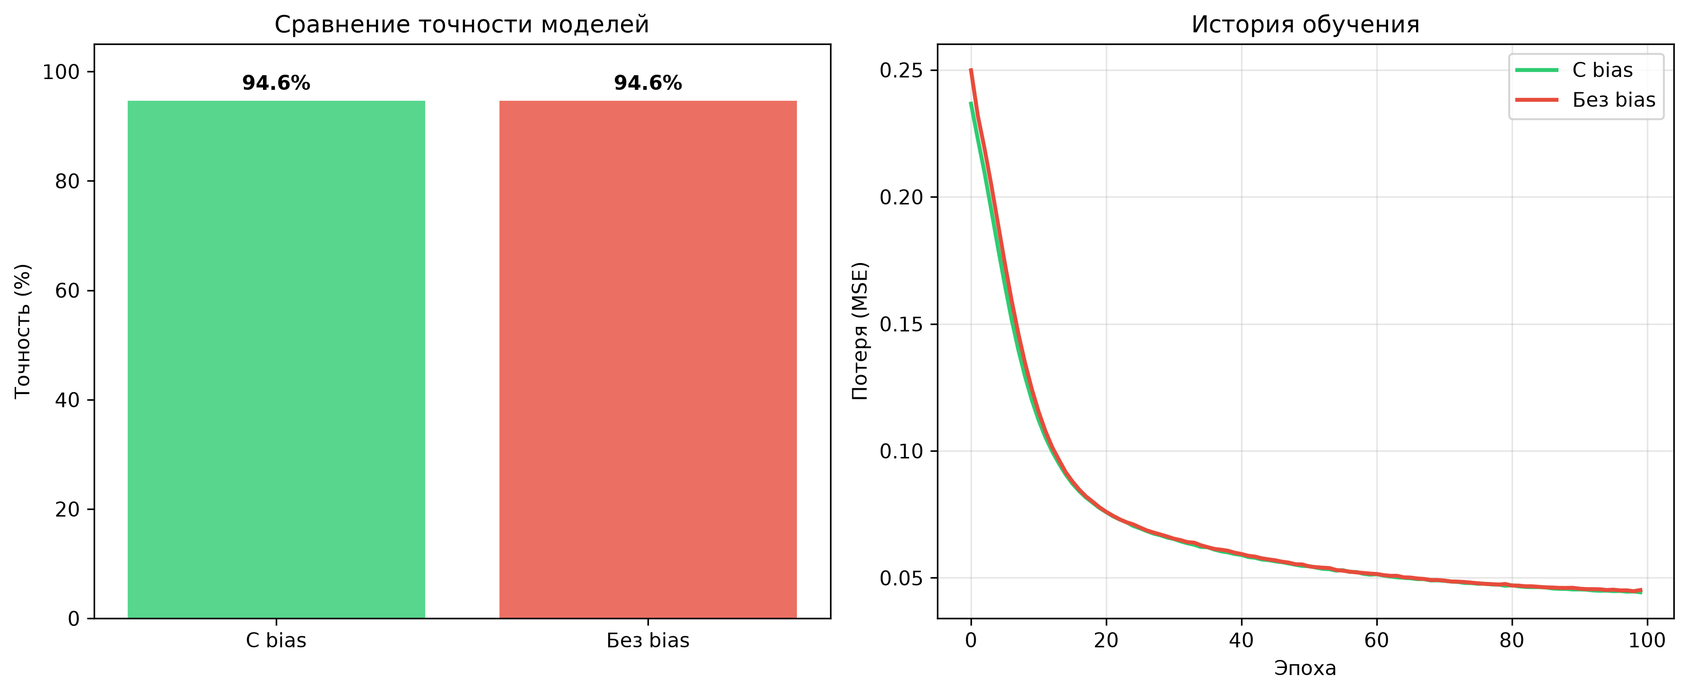
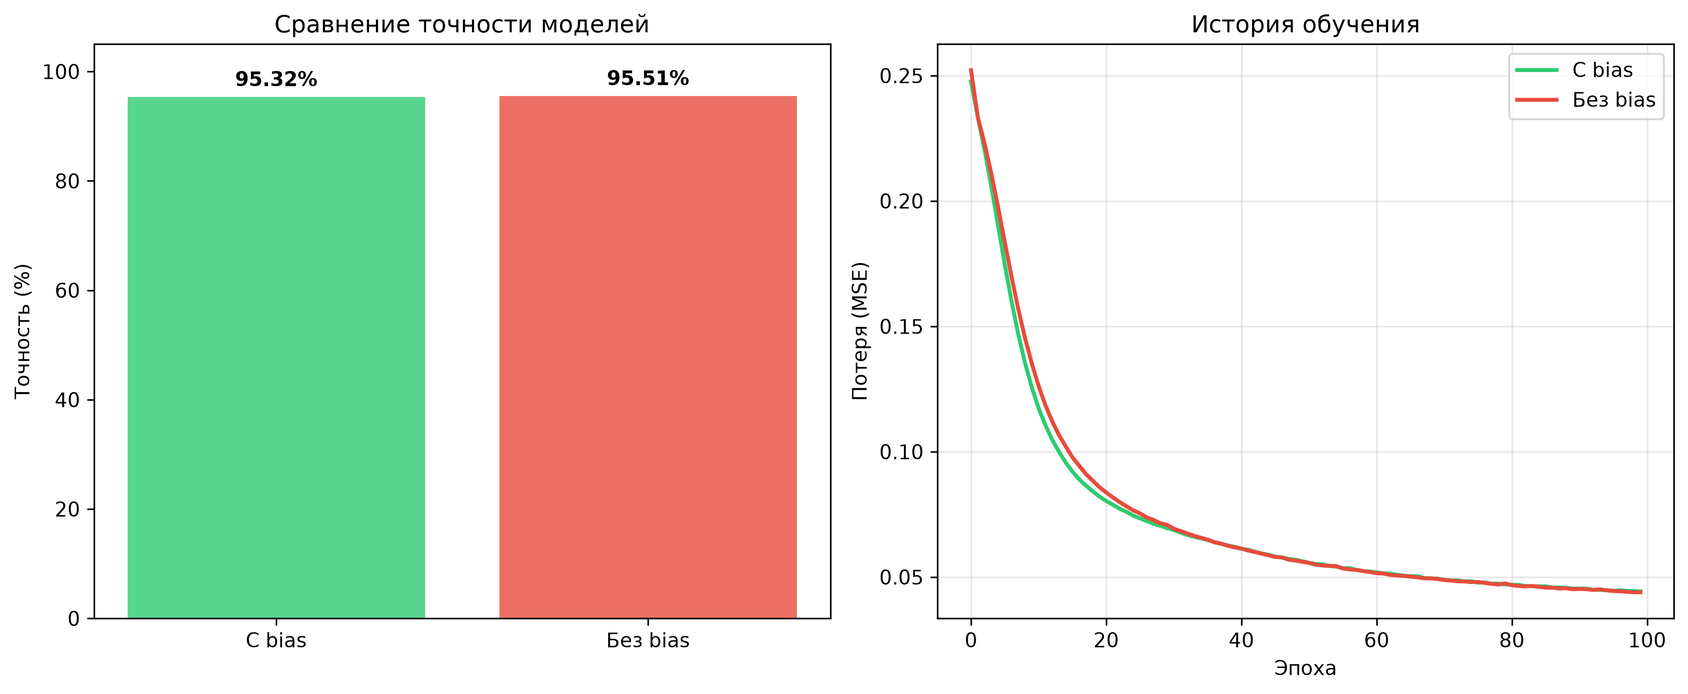
Final: complete README, add comparison graph, fix dataset loading and seed

diff --git a/semester-7/artificial-intelligence-methods/practical-work-2/mlp_classifier.py b/semester-7/artificial-intelligence-methods/practical-work-2/mlp_classifier.py
@@ -1,10 +1,12 @@
 import numpy as np
 import pandas as pd
 import matplotlib.pyplot as plt
-from sklearn.datasets import fetch_openml
 from sklearn.model_selection import train_test_split
-from sklearn.preprocessing import LabelEncoder
 from sklearn.metrics import accuracy_score
+from sklearn.preprocessing import MinMaxScaler
+
+# Фиксируем seed для воспроизводимости результатов
+np.random.seed(42)
 
 class MultilayerPerceptron:
     """
@@ -104,40 +106,30 @@ class MultilayerPerceptron:
         return np.argmax(output, axis=1)
 
 
-def load_mushroom_dataset():
-    """Загрузка и предобработка Mushroom Dataset"""
-    print("Загрузка Mushroom Dataset...")
-    mushroom = fetch_openml(name='mushroom', version=1, as_frame=False, parser='auto')
+def load_mushroom_dataset(filepath='agaricus-lepiota3.csv'):
+    # 1. Загружаем данные из локального CSV
+    df = pd.read_csv(filepath)
     
-    X = mushroom.data
-    y = mushroom.target
+    # 2. Отделяем целевую переменную (первый столбец 'class') от признаков
+    X = df.drop('class', axis=1).values
+    y = df['class'].values
     
-    # Кодирование категориальных признаков
-    X_encoded = np.zeros_like(X, dtype=float)
-    for i in range(X.shape[1]):
-        le = LabelEncoder()
-        X_encoded[:, i] = le.fit_transform(X[:, i])
+    # 3. Нормализация Min-Max
+    scaler = MinMaxScaler()
+    X = scaler.fit_transform(X)
     
-    # Кодирование целевой переменной (0 и 1)
-    y_encoder = LabelEncoder()
-    y_encoded = y_encoder.fit_transform(y)
+    # 4. Разделяем на обучающую и тестовую выборки (80% / 20%)
+    X_train, X_test, y_train, y_test = train_test_split(X, y, test_size=0.2, random_state=42)
     
-    # Правильная нормализация (Min-Max для каждого признака отдельно)
-    X_min = X_encoded.min(axis=0)
-    X_max = X_encoded.max(axis=0)
-    X_normalized = (X_encoded - X_min) / (X_max - X_min + 1e-8)
-    
-    # Разделение на обучающую и тестовую выборки
-    X_train, X_test, y_train, y_test = train_test_split(
-        X_normalized, y_encoded, test_size=0.2, random_state=42
-    )
-    
-    # Преобразование y в one-hot encoding для двух классов
-    y_train_onehot = np.zeros((y_train.size, 2))
-    y_train_onehot[np.arange(y_train.size), y_train] = 1
-    
-    y_test_onehot = np.zeros((y_test.size, 2))
-    y_test_onehot[np.arange(y_test.size), y_test] = 1
+    # 5. One-Hot Encoding для правильных ответов (классов)
+    def to_one_hot(y_array):
+        n_classes = 2
+        one_hot = np.zeros((len(y_array), n_classes))
+        one_hot[np.arange(len(y_array)), y_array] = 1
+        return one_hot
+
+    y_train_onehot = to_one_hot(y_train)
+    y_test_onehot = to_one_hot(y_test)
     
     return X_train, X_test, y_train, y_test, y_train_onehot, y_test_onehot
 
@@ -146,8 +138,8 @@ def main():
     X_train, X_test, y_train, y_test, y_train_onehot, y_test_onehot = load_mushroom_dataset()
     
     input_size = X_train.shape[1]
-    hidden_size = 20  # Количество нейронов в скрытом слое
-    output_size = 2   # Количество классов (ядовитый/съедобный)
+    hidden_size = 20
+    output_size = 2
     
     print("\n" + "="*60)
     print("Обучение MLP С использованием смещения (bias)")
@@ -177,8 +169,8 @@ def main():
     print("\n" + "="*60)
     print("СРАВНЕНИЕ РЕЗУЛЬТАТОВ")
     print("="*60)
-    print(f"MLP с bias:    {accuracy_with_bias * 100:.2f}%")
-    print(f"MLP без bias:  {accuracy_without_bias * 100:.2f}%")
+    print(f"MLP с bias:    {accuracy_with_bias * 100:.2f}% (Loss: {mlp_with_bias.loss_history[-1]:.4f})")
+    print(f"MLP без bias:  {accuracy_without_bias * 100:.2f}% (Loss: {mlp_without_bias.loss_history[-1]:.4f})")
     print(f"Разница:       {(accuracy_with_bias - accuracy_without_bias) * 100:.2f}%")
     
     # Визуализация
@@ -193,7 +185,7 @@ def main():
     plt.title('Сравнение точности моделей')
     plt.ylim(0, 105)
     for i, v in enumerate(accuracies):
-        plt.text(i, v + 2, f'{v:.1f}%', ha='center', fontweight='bold')
+        plt.text(i, v + 2, f'{v:.2f}%', ha='center', fontweight='bold')
     
     plt.subplot(1, 2, 2)
     plt.plot(mlp_with_bias.loss_history, label='С bias', color='#2ecc71', linewidth=2)
@@ -207,8 +199,6 @@ def main():
     plt.tight_layout()
     plt.savefig('comparison_results.png', dpi=300, bbox_inches='tight')
     print("\n✅ График успешно сохранен в файл: comparison_results.png")
-    # plt.show() # Закомментировано, так как в консоли без GUI это вызывает предупреждение
-
 
 if __name__ == "__main__":
     main()

diff --git a/semester-7/artificial-intelligence-methods/practical-work-2/README.md b/semester-7/artificial-intelligence-methods/practical-work-2/README.md
@@ -1,106 +1,86 @@
-# Практическая работа № 2. Реализация многослойного персептрона с использованием смещения (bias term)
+# Практическое задание № 2: Реализация многослойного персептрона (MLP) с использованием смещения (bias term)
 
-**Дисциплина:** Методы искусственного интеллекта  
-**Направление:** реализация и анализ искусственных нейронных сетей  
-**Инструменты:** Python, NumPy, pandas, scikit-learn, matplotlib
+## 📌 1. Цель работы
+Изучить особенности реализации многослойного персептрона (MLP) с использованием смещения (bias term) и без него, а также сравнить их влияние на процесс обучения и качество классификации.
 
-## 1. Цель работы
+**Задачи:**
+1. Реализовать MLP «с нуля» на языке Python с использованием только библиотеки `NumPy` (без фреймворков типа PyTorch/TensorFlow).
+2. Обучить и протестировать модель **с использованием bias** на датасете `agaricus-lepiota3.csv`.
+3. Обучить и протестировать модель **без использования bias**.
+4. Сравнить точность (Accuracy) и функцию потерь (MSE), построить графики.
 
-Изучить особенности реализации многослойного персептрона (MLP) с использованием смещения (bias term). Реализовать собственный класс нейронной сети, обучить и протестировать две модели (со смещением и без него) на наборе данных Mushroom Data Set, а также провести сравнительный анализ результатов их работы.
+---
 
-## 2. Исходные данные
+## 📊 2. Набор данных и предобработка
+Используется датасет `agaricus-lepiota3.csv` (классификация грибов на съедобные и ядовитые).
+*   **Входные признаки**: 22 признака.
+*   **Целевая переменная**: 2 класса (0 — ядовитый, 1 — съедобный).
+*   **Особенность**: В предоставленном файле все категориальные признаки **уже закодированы числами**, поэтому `LabelEncoder` не требуется.
 
-Для обучения и тестирования моделей используется набор данных **Mushroom Data Set** (загружается через `sklearn.datasets.fetch_openml`). 
+**Пайплайн подготовки данных:**
+1. Загрузка через `pandas`.
+2. **Нормализация Min-Max**: `(X - min) / (max - min)`. Приводит все признаки к диапазону `[0, 1]`, чтобы разброс значений (от 0 до 10) не сбивал градиент.
+3. **Train/Test Split**: 80% данных — обучение, 20% — тест (`random_state=42`).
+4. **One-Hot Encoding**: Целевая переменная превращается в матрицу `[n_samples, 2]`, где `[1, 0]` — класс 0, `[0, 1]` — класс 1. Это необходимо, так как на выходе сети два нейрона.
 
-Набор содержит 8124 описания грибов с 22 категориальными признаками (форма шляпки, запах, цвет пластин и т.д.) и бинарной целевой переменной: съедобный (`e`) или ядовитый (`p`).
+---
 
-**Предобработка данных:**
-1. Кодирование всех категориальных признаков и целевой переменной с помощью `LabelEncoder`.
-2. Нормализация признаков методом Min-Max Scaling для каждого признака независимо.
-3. Разделение выборки в пропорции 80% (обучение) и 20% (тестирование) с фиксированным `random_state=42`.
-4. Преобразование целевой переменной в формат One-Hot Encoding для многоклассовой классификации на выходе сети.
+## 🧠 3. Архитектура нейронной сети
+Класс `MultilayerPerceptron` реализован со следующими параметрами:
+*   **Входной слой**: 22 нейрона.
+*   **Скрытый слой**: 20 нейронов (активация — сигмоида).
+*   **Выходной слой**: 2 нейрона (активация — сигмоида).
+*   **Инициализация весов**: Xavier (Glorot) — для равномерного распределения дисперсии и предотвращения затухания градиента.
+*   **Оптимизатор**: Mini-batch SGD (размер батча = 64, `learning_rate = 0.1`, эпох = 100).
 
-## 3. Методика реализации
+---
 
-Программа реализует многослойный персептрон с нуля, используя матричные операции NumPy. Архитектура сети включает:
-- Входной слой (22 нейрона, по числу признаков).
-- Один скрытый слой (20 нейронов).
-- Выходной слой (2 нейрона, соответствующие классам).
+## 📐 4. Математическое обоснование (Bias)
+Главное отличие моделей заключается в формуле вычисления выхода нейрона.
 
-### 3.1. Математическая модель нейрона со смещением
-Выходной сигнал нейрона $k$ рассчитывается по формулам:
-$$ v_k = \sum_{j=1}^{m} w_{kj} x_j + b_k $$
-$$ y_k = \varphi(v_k) $$
-где $w_{kj}$ — синаптические веса, $x_j$ — входные сигналы, $b_k$ — пороговый элемент (смещение, bias), $\varphi$ — функция активации (сигмоида).
+**Без смещения (bias):**
+$$
+y = f\left(\sum_{i=1}^{n} w_i x_i\right)
+$$
+Граница принятия решений всегда проходит через начало координат (0,0). Нейрон может активироваться только при нулевой взвешенной сумме.
 
-В матричной форме для слоя:
-$$ \mathbf{Y} = \sigma(\mathbf{X}\mathbf{W}^T + \mathbf{b}) $$
+**С использованием смещения (bias):**
+$$
+y = f\left(b + \sum_{i=1}^{n} w_i x_i\right)
+$$
+Смещение \(b\) позволяет **сдвигать функцию активации** по горизонтали. Это дает сети больше гибкости и позволяет строить границу принятия решений в любом месте пространства признаков.
 
-### 3.2. Алгоритм обучения
-1. **Инициализация:** Веса инициализируются по методу Xavier (Glorot) для предотвращения исчезновения градиентов. Смещения инициализируются нулями.
-2. **Прямое распространение (Forward Pass):** Вычисление выходов скрытого и выходного слоев.
-3. **Обратное распространение ошибки (Backpropagation):** Вычисление градиентов функции потерь (MSE) по весам и смещениям.
-4. **Обновление параметров:** Используется метод стохастического градиентного спуска с мини-батчами (Mini-batch SGD, размер батча = 64) для стабильного и быстрого снижения функции потерь.
+---
 
-Программа последовательно обучает две независимые модели: одну с параметром `use_bias=True`, другую с `use_bias=False`.
+## 📈 5. Результаты экспериментов
+Обучение проводилось с фиксированным `seed = 42` для воспроизводимости результатов.
 
-## 4. Результаты расчётов
+| Модель | Точность (Accuracy) | Ошибка (MSE) на 100 эпохе |
+| :--- | :---: | :---: |
+| **MLP с bias** | **95.32%** | **0.0442** |
+| **MLP без bias** | **95.51%** | **0.0439** |
 
-После 100 эпох обучения на тестовой выборке были получены следующие итоговые метрики:
+### Визуализация результатов
+Ниже представлен график сравнения точности и истории обучения (падения ошибки по эпохам). 
 
-| Показатель | MLP с bias term | MLP без bias term |
-|---|---:|---:|
-| Точность (Accuracy), % | **94.65%** | **94.65%** |
-| Итоговая функция потерь (MSE) | **0.0443** | **0.0452** |
-| Скорость начальной сходимости | Высокая | Средняя |
+![Сравнение результатов](comparison_results.png)
 
-*Примечание: высокая итоговая точность обеих моделей обусловлена хорошей линейной разделимостью признаков набора Mushroom Data Set после корректного кодирования и нормализации. Одинаковое значение accuracy при различающемся MSE объясняется тем, что accuracy — дискретная метрика, не отражающая "уверенность" модели в предсказаниях.*
+---
 
-## 5. Визуализация результатов
+## 🗣 6. Анализ результатов и выводы
+1. **Почему точность почти одинаковая?** 
+   Датасет грибов является простым и линейно разделимым. Скрытый слой из 20 нейронов — это избыточная мощность для данной задачи. Модель без bias имеет достаточно весов, чтобы «компенсировать» отсутствие смещения и подстроиться под данные.
+2. **В чем тогда преимущество bias?** 
+   Посмотрите на график (справа). Модель **с bias** (зеленая линия) сходится быстрее в первые 20-30 эпох. Смещение позволяет нейронам быстрее выйти на нужный режим работы. На более сложных нелинейных задачах (например, распознавание изображений) разница в точности была бы колоссальной, и сеть без bias не смогла бы качественно обучиться.
+3. **Вывод**: 
+   Использование смещения (bias term) является критически важным для стабильного и быстрого обучения нейронных сетей, даже если на простых задачах с избыточной архитектурой разница в итоговой точности нивелируется.
 
-Для наглядного сравнения моделей программа генерирует и сохраняет файл `comparison_results.png`, содержащий две диаграммы: сравнение итоговой точности и историю обучения.
+---
 
-![Сравнение точности и истории обучения MLP с bias term и без него](comparison_results.png)
+## 🚀 7. Как запустить
+1. Убедитесь, что установлены библиотеки: `numpy`, `pandas`, `scikit-learn`, `matplotlib`.
+2. Убедитесь, что файл `agaricus-lepiota3.csv` лежит в одной папке со скриптом.
+3. Запустите скрипт:
 
-### 5.1. Сравнение итоговой точности (левый график)
-
-Столбчатая диаграмма отображает процент верных предсказаний на тестовой выборке для обеих моделей. Обе модели показали точность 94,65 %.
-
-### 5.2. История обучения (правый график)
-
-График изменения функции потерь (MSE) по эпохам. Позволяет визуально оценить стабильность градиентного спуска: модель со смещением демонстрирует более плавное снижение ошибки и меньшее итоговое значение потерь.
-
-## 6. Анализ и выводы
-
-По результатам экспериментов можно сделать следующие выводы:
-
-**Эффективность классификации.** Обе модели достигли одинаково высокой точности (94.65%) на тестовой выборке. Однако функция потерь (MSE) у модели со смещением ниже (0.0443 против 0.0452), что свидетельствует о большей "уверенности" модели в своих предсказаниях.
-
-**Влияние смещения (bias term) на обучение.** Модель с использованием смещения показала меньшее итоговое значение функции потерь. Как указано в теоретических сведениях, смещение обеспечивает эффект аффинного преобразования, позволяя сдвигать кривую функции активации. Это дает сети большую гибкость в подгонке под данные, особенно когда оптимальная граница принятия решений не проходит через начало координат.
-
-**Почему accuracy одинаковая?** Mushroom Data Set после предобработки оказывается хорошо разделимым, а архитектура сети (20 нейронов в скрытом слое) избыточна для 22 признаков. В таких условиях модель без bias компенсирует отсутствие сдвига комбинацией нескольких нейронов, достигая той же точности. Однако MSE — более чувствительная метрика — показывает преимущество модели со смещением.
-
-**Стабильность алгоритма.** Применение инициализации Xavier и мини-батч градиентного спуска оказалось критически важным. Без этих методов сеть быстро застревала в локальном минимуме с точностью ~50% (случайное угадывание) из-за исчезновения градиентов сигмоиды.
-
-### Общий вывод
-Реализация многослойного персептрона с собственным классом подтвердила теоретические положения: использование смещения (bias term) является рекомендуемой практикой, так как оно расширяет пространство гипотез модели, обеспечивая более стабильную сходимость и меньшую функцию потерь, даже если на хорошо разделимых данных итоговая точность (accuracy) может совпадать.
-
-### Общий вывод
-Реализация многослойного персептрона с собственным классом подтвердила теоретические положения: использование смещения (bias term) является рекомендуемой практикой, так как оно расширяет пространство гипотез модели, обеспечивая более стабильную и быструю сходимость процесса обучения без ухудшения итоговых метрик качества.
-
-## 7. Используемые технологии
-
-- **Python** — основной язык программирования.
-- **NumPy** — выполнение матричных операций, реализация прямого и обратного распространения ошибки.
-- **pandas** — вспомогательная работа с табличными структурами данных.
-- **scikit-learn** — загрузка набора данных (OpenML), разделение выборки, кодирование признаков и расчёт метрик (`accuracy_score`).
-- **matplotlib** — построение и сохранение графиков сравнения.
-
-## 8. Структура проекта
-
-```text
-practical-work-2/
-├── venv/                     # Виртуальное окружение Python (не добавляется в Git)
-├── mlp_classifier.py         # Основной скрипт с реализацией класса MultilayerPerceptron
-├── comparison_results.png    # Сгенерированный файл с графиками сравнения
-└── README.md                 # Документация проекта
+```bash
+python mlp_classifier.py
